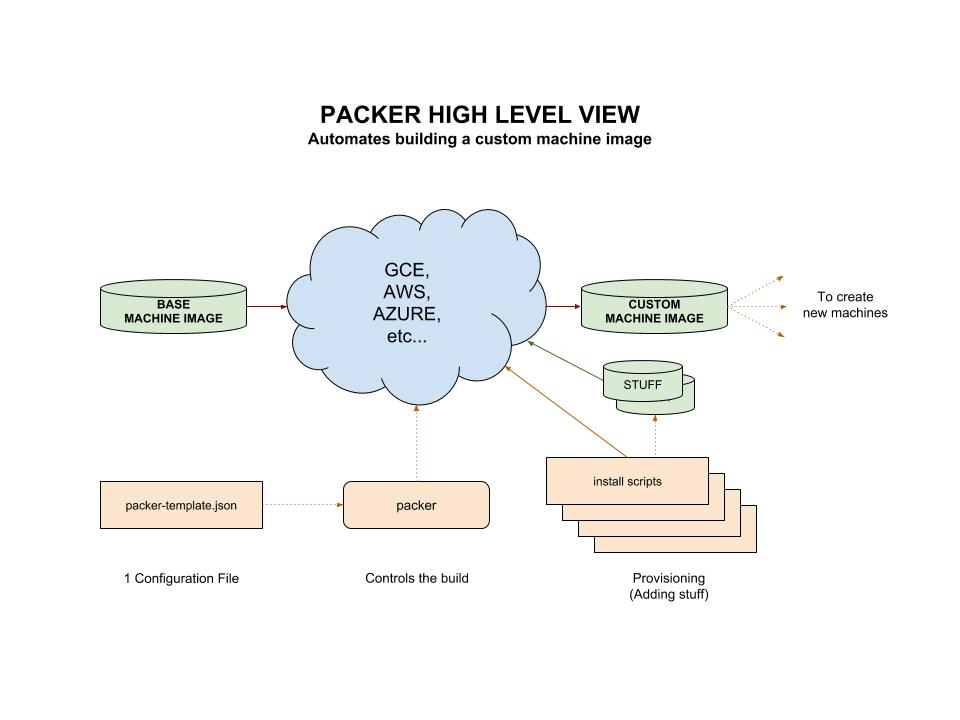
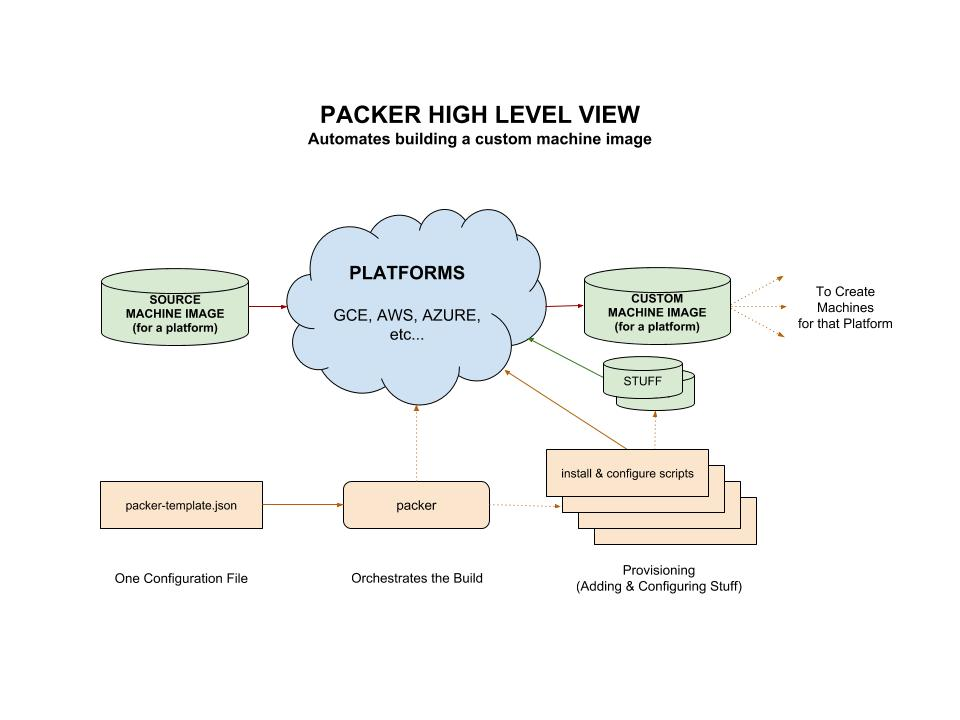
updated gce, packer, and packer images

diff --git a/software/operations-tools/orchestration/builds-deployment-containers/packer-cheat-sheet/README.md b/software/operations-tools/orchestration/builds-deployment-containers/packer-cheat-sheet/README.md
@@ -6,11 +6,10 @@ configuration file._
 
 My Repo example is [hello-go-deploy-gce](https://github.com/JeffDeCola/hello-go-deploy-gce).
 
-My cheat sheet on
-[create a custom image using packer on gce](https://github.com/JeffDeCola/my-cheat-sheets/tree/master/software/infrastructure-as-a-service/cloud-services-compute/google-cloud-platform-cheat-sheet/google-compute-engine-create-image-packer.md)
-
 Documentation and reference,
 
+* My cheat sheet,
+  [create a custom image using packer on gce](https://github.com/JeffDeCola/my-cheat-sheets/tree/master/software/infrastructure-as-a-service/cloud-services-compute/google-cloud-platform-cheat-sheet/google-compute-engine-create-image-packer.md)
 * [Packer Documentation](https://www.packer.io/)
 
 View my entire list of cheat sheets on
@@ -37,12 +36,12 @@ VirtualBox, VMware, and more.
 
 Here is a high level view of packer,
 
-![IMAGE -  packer high level view - IMAGE](../../../../docs/pics/packer-high-level-view.jpg)
+![IMAGE -  packer high level view - IMAGE](../../../../../docs/pics/packer-high-level-view.jpg)
 
 ## INSTALL
 
-Goto this website [https://www.packer.io/downloads.html](https://www.packer.io/downloads.html)
-to install.  Must be 64-bit machine.
+Go [here](https://www.packer.io/downloads.html)
+to install.  Must use a 64-bit machine.
 
 For Linux, its actually really simple to install
 the binary, just download, unzip and place in `/usr/bin`.
@@ -64,22 +63,28 @@ It is called a template in packer terminology.
 It has three main sections,
 
 * `variables` - Just variables to make your life easier.
-* `builders` - ???
+* `builders` - Define and configure your builders (e.g. gce, aws, azure etc...)
 * `provisioners` - This is the magic, where you add/install stuff.
 
 ### BASIC FORMAT OF A TEMPLATE FILE
 
-As an example a `gce` template file can look like,
+By way of example, here is a very simple template file used
+to build a simple image at `gce`,
 
 ```json
 {
     "variables": {
-        ...
+        "zone": "us-central1-a",
     },
 
     "builders": [
-        {
-            ...
+        {   
+            "type": "googlecompute",
+            "account_file": "account.json",
+            "project_id": "my project",
+            "source_image": "debian-7-wheezy-v20150127",
+            "ssh_username": "packer",
+            "zone": "{{user `zone`}}"
         }
     ],
 
@@ -91,13 +96,6 @@ As an example a `gce` template file can look like,
         },
         {
             "type": "shell",
-            "inline":[
-                "ls -la /home/ubuntu",
-                "cat /home/ubuntu/welcome.txt"
-            ]
-        },
-        {
-            "type": "shell",
             "script": "./example.sh"
         }
     ]
@@ -106,35 +104,57 @@ As an example a `gce` template file can look like,
 
 ### VARIABLES
 
-Variables are just that, variables. Things like credentials, project names.
+Variables are just that, variables. It makes life easier.
+they are used in the builder section.
 
+You can also pass in variables to packer via
+the packer command line interface.
 
 ### BUILDERS
 
-tbd
+* Defines the builders that will be used to create machine `images`
+  For example `gce`, `aws`, etc...
+* Configures each of those builders
 
 ### PROVISIONERS (ADD YOUR STUFF)
 
-The real utility of Packer comes from being
-able to install and configure software into the
-images as well. This stage is also known as the provision step. 
+Install and configure software.  This stage is also known
+as the provision step.
 
 ## VALIDATE THE TEMPLATE FILE
 
-Before you kick off a build validate this file,
+Before you kick off a build, validate the template file,
 
 ```bash
-packer validate gce-packer-template.json
+packer validate packer-template-file.json
 ```
 
 ## RUN THE TEMPLATE FILE (LETS BUILD OUR IMAGE)
 
-Lets build our custom machine image on gce,
+Lets build our custom machine image,
 
 ```bash
-packer build gce-packer-template.json
+packer build -force packer-template-file.json
+```
+
+`-force` removes artifacts from previous build.
+
+You can pass in variables to `packer`
+if you don't want to keep them in your
+template file.
+
+For example,
+
+```bash
+packer build -force \
+    -var 'region=us-central1' \
+    -var 'zone=us-central1-b' \
+    packer-template-file.json
 ```
 
 There are also lots of command line switches,
 but I like to keep everything in my
 template file.
+
+Again, to see a working example, go to my repo
+[hello-go-deploy-gce](https://github.com/JeffDeCola/hello-go-deploy-gce).

diff --git a/software/infrastructure-as-a-service/cloud-services-compute/google-cloud-platform-cheat-sheet/google-compute-engine-create-image-packer.md b/software/infrastructure-as-a-service/cloud-services-compute/google-cloud-platform-cheat-sheet/google-compute-engine-create-image-packer.md
@@ -5,8 +5,10 @@ to create a custom image on `gce`._
 
 My Repo example is [hello-go-deploy-gce](https://github.com/JeffDeCola/hello-go-deploy-gce).
 
-My cheat sheet on
-[packer](https://github.com/JeffDeCola/my-cheat-sheets/tree/master/software/operations-tools/orchestration/builds-deployment-containers/packer-cheat-sheet).
+Documentation and reference,
+* [gce template file reference](https://www.packer.io/docs/builders/googlecompute.html)
+* My cheat sheet on
+  [packer](https://github.com/JeffDeCola/my-cheat-sheets/tree/master/software/operations-tools/orchestration/builds-deployment-containers/packer-cheat-sheet).
 
 View my entire list of cheat sheets on
 [my GitHub Webpage](https://jeffdecola.github.io/my-cheat-sheets/).
@@ -19,17 +21,52 @@ This is exactly what we want to do.
 The following illustration shows how `packer` controls the automation of building an `image`.
 As you can see, it all stems from one configuration file `gce-packer-template.json`.
 
-![IMAGE -  google compute engine app / service view - IMAGE](../../../../docs/pics/google-compute-engine-create-custom-image-packer.jpg)
+![IMAGE -  google compute engine create custom image packer - IMAGE](../../../../docs/pics/gce-create-custom-image-packer.jpg)
 
-## GCE PACKER TEMPLATE FILE
+## AUTHENTICATION
 
-## VARIABLES
+Packer needs to be authorized to use your `gce` account.
+This is done using a google service account file. We already setup an env
+variable `$GOOGLE_APPLICATION_CREDENTIALS` that points to the
+location of the service account file.
 
-Got `gce` we use the env variable `$GOOGLE_APPLICATION_CREDENTIALS` that you already setup.
-This will allow `packer` running on your local machine authorization to access your `gce` account.
 For information how to set this up checkout my cheat sheet 
 [here](https://github.com/JeffDeCola/my-cheat-sheets/tree/master/software/infrastructure-as-a-service/cloud-services-compute/google-cloud-platform-cheat-sheet/google-compute-engine.md#gce-service-account-key)
 
-### BUILDRS
+## BASIC GCE PACKER TEMPLATE FILE
+ 
+A bare bones template file to build a custom image from an image would look like this,
 
-### PROVISIONERS
+```json
+{
+    "variables": {
+        "zone": "us-central1-a",
+    },
+
+    "builders": [
+        {   
+            "type": "googlecompute",
+            "account_file": "account.json",
+            "project_id": "my project",
+            "source_image": "debian-7-wheezy-v20150127",
+            "ssh_username": "packer",
+            "zone": "{{user `zone`}}"
+        }
+    ],
+
+    "provisioners": [
+        {
+            "type": "file",
+            "source": "./welcome.txt",
+            "destination": "/home/ubuntu/"
+        },
+        {
+            "type": "shell",
+            "script": "./example.sh"
+        }
+    ]
+}
+```
+
+To see a real working example, go to my repo
+[hello-go-deploy-gce](https://github.com/JeffDeCola/hello-go-deploy-gce).

diff --git a/software/infrastructure-as-a-service/cloud-services-compute/google-cloud-platform-cheat-sheet/google-compute-engine.md b/software/infrastructure-as-a-service/cloud-services-compute/google-cloud-platform-cheat-sheet/google-compute-engine.md
@@ -56,7 +56,7 @@ $HOME/.config/gcloud/<name>.json
 Set an environment variable in `~/.bashrc` to point to your credentials file,
 
 ```bash
-export GOOGLE_APPLICATION_CREDENTIALS='$HOME/.config/gcloud/<name>.json'
+export GOOGLE_APPLICATION_CREDENTIALS='/home/jeff/.config/gcloud/<name>.json'
 ```
 
 Check that its all setup,
@@ -196,7 +196,7 @@ App/service may be running on `gce`.  AS you can see in this example,
 the VM instances contain services.  It also shows
 `instance groups` control the show (They deploy and scale VM instances).
 
-![IMAGE -  google compute engine app / service view - IMAGE](../../../../docs/pics/google-compute-engine-app-service-view.jpg)
+![IMAGE -  google compute engine app service view instance groups / service view - IMAGE](../../../../docs/pics/gce-app-service-view-instance-groups.jpg)
 
 The following illustration is a more detailed view of gce,
 
@@ -207,7 +207,7 @@ The following illustration is a more detailed view of gce,
 
 We will go over each section below.
 
-![IMAGE -  google compute engine overview - IMAGE](../../../../docs/pics/google-compute-engine-overview.jpg)
+![IMAGE -  google compute engine overview creating deploying custom image - IMAGE](../../../../docs/pics/gce-overview-creating-deploying-custom-image.jpg)
 
 ### IMAGES
 
